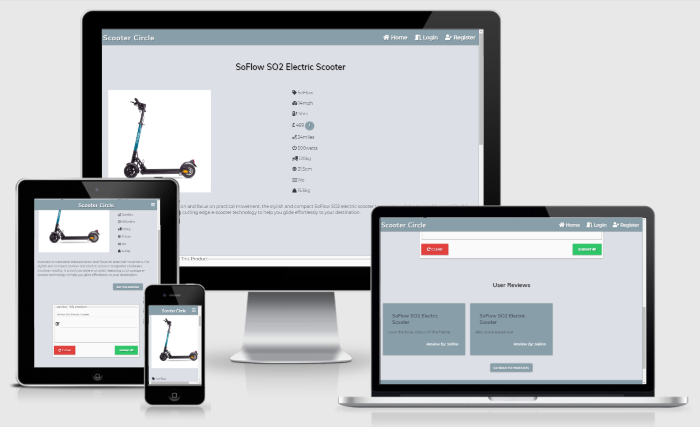
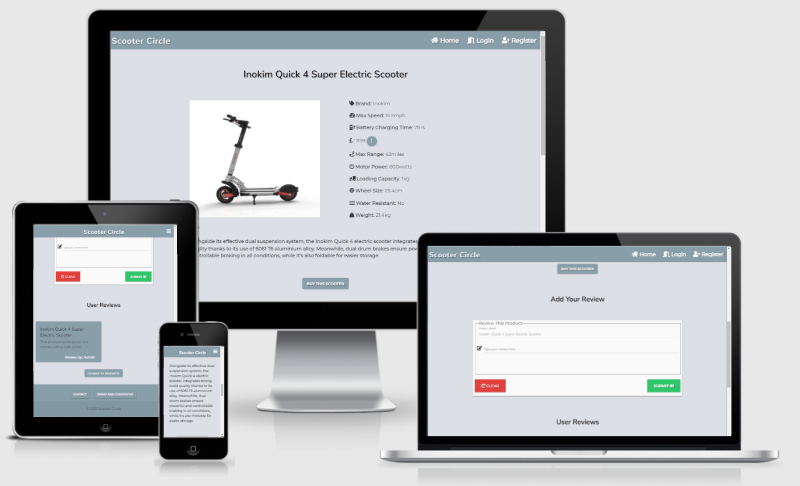
Replaced the images for product and view product page

Changed region(s): [[0.0, 0.0, 0.99, 0.9742]]

diff --git a/README.md b/README.md
@@ -1,6 +1,6 @@
 # Scooter Circle
 
-![Scooter Circle](/static/images/responsive-img.png "Am I Responsive Image") 
+![Scooter Circle](wireframes/images/responsive-img.png "Am I Responsive Image") 
 
 [View the deployed project here](https://scooter-circle.herokuapp.com/)
 
@@ -221,7 +221,8 @@ This app will provide a user with the possibility to view the different scooters
 ## Design 
 
 ### Colour Scheme 
-![Color Pallete](/static/images/colour-pallete.png)
+![Color Pallete](wireframes/images/colour-pallete.png)
+
 -  On occasion colours have been converted to *rgba* values to create transparency.
 -  The colour palette has been picked from [coolors](https://coolors.co/dcdfe5-a0b2bb-39d073-e1403d-383843)
 -  Additional colours have been used: #fafafa to give the text a good contrast on the dark grey background 
@@ -552,7 +553,7 @@ I have used [Lucid Chart](https://www.lucidchart.com/) to create a database mode
 ![all products](wireframes/images/products-page.png)
 
 #### Search 
-  - A search bar has been implemented using **MongoDB** text index to allow the user search by *brand or model*.
+  - A search bar has been implemented using **MongoDB** text index to allow the user to search by *brand or model*.
 
 #### Filter
   - Below the search bar the user may filter their results by: 
@@ -600,16 +601,14 @@ I have used [Lucid Chart](https://www.lucidchart.com/) to create a database mode
     function () {
       $(this).append($("<span class='hover-effect disp-bottom'>charging time</span>"));
     }`
-  - Therefore when the icon is hovered or touched on mobile devices, span element gets appended and description is shown to the user
-  - The icons appear in two collums, the icon at the top will have an icon description showing at the top.
+  - Therefore when the icon is hovered or touched on mobile devices,the span element gets appended and a description is shown to the user
+  - The icons appear in two columns, the icon at the top will have an icon description showing at the top.
   - The icons at the bottom will have the icon description showing at the bottom.
-  - When the user moves on to the different icon or leves the card, the description will be removed.
+  - When the user moves on to a different icon or leaves the card, the description will be removed.
    - `function () {
       $(this).find("span").last().toggle();
     }`
   - When the description is shown, the background colour is #383843, keeping the same style as **tooltip** feature.
-  
-
 
 ##### back to [content](#table-of-content)
 
@@ -696,7 +695,7 @@ I have used [Lucid Chart](https://www.lucidchart.com/) to create a database mode
 ![404.html](wireframes/images/404-error-page.png)
   
 - Custom 404.html page has been created in case of an incorrect URL entered.
-- The user is presented with a full-width background image of the scooter lying on the at the floor at  the  bottom of the stairs.
+- The user is presented with a full-width background image of the scooter lying on the floor at the  bottom of the stairs.
 - The page contains a link that will lead the user back to the home page. 
 
 ##### back to [content](#table-of-content)
@@ -713,7 +712,7 @@ I have used [Lucid Chart](https://www.lucidchart.com/) to create a database mode
 1. Pagination
   - Once the website content gets big enough the pagination would be implemented 
 for reviews on the *profile* and *view product* pages.
-  - Also pagination should be implemented for products on the *products* page.
+  - Also, pagination should be implemented for products on the *products* page.
 
 2. Favourites
   - Add to favourite option could be implemented to let the user save their favourite scooters to their profile page.
@@ -778,7 +777,7 @@ for reviews on the *profile* and *view product* pages.
     - Non-relational databae hosting service 
 
 9. [Wekzeug](https://werkzeug.palletsprojects.com/en/2.0.x/)
-    - A WSGI web application library used to encrypt user passwords
+    - A WSGI web application library is used to encrypt user passwords
 
 10. [Flask-SSLify](https://pypi.org/project/Flask-SSLify/)
      - Flask extension that configures your Flask application to redirect all incoming HTTP requests to HTTPS
@@ -848,7 +847,7 @@ for reviews on the *profile* and *view product* pages.
   - Used this tool to find missing tags
 
 20. [Lampada Test](https://app.lambdatest.com/console/realtime)
-  - Used this tool to help with cross browser compatability test 
+  - Used this tool to help with cross-browser compatibility test 
 
 
     
@@ -970,11 +969,11 @@ API documentation and modified to fit the site purpose.
   - [Techsini](https://techsini.com/how-to-add-css-preloader-to-your-website-tutorial/)
   - The code has then been initialized in the *script.js* file
 
-- Block title template has been used from [Jinja documentation](https://jinja.palletsprojects.com/en/3.0.x/templates/), also a fall back title has been added if the page does not have a specific title added in route.
+- Block title template has been used from [Jinja documentation](https://jinja.palletsprojects.com/en/3.0.x/templates/), also a fallback title has been added if the page does not have a specific title added in route.
 
-- [MongoDB documentation](https://docs.mongodb.com/manual/reference/operator/update/inc/) have been used to find out how to increment total number of reviews, when adding a new review. The same operator has been used to reduce the number of reviews, when the user is deleting a review.
+- [MongoDB documentation](https://docs.mongodb.com/manual/reference/operator/update/inc/) have been used to find out how to increment a total number of reviews when adding a new review. The same operator has been used to reduce the number of reviews when the user is deleting a review.
 
-- Code for custom error handling pages has been sorced from [Flask documentation](https://flask.palletsprojects.com/en/2.0.x/errorhandling/)
+- Code for custom error handling pages has been sourced from [Flask documentation](https://flask.palletsprojects.com/en/2.0.x/errorhandling/)
 
 - Code to handle custom error message in HTML5 form elements was sorced from [Stackoverflow](https://stackoverflow.com/questions/5272433/html5-form-required-attribute-set-custom-validation-message)
 ##### back to [content](#table-of-content)
@@ -991,7 +990,7 @@ API documentation and modified to fit the site purpose.
 
 - I would like to thank my mentor *Medale Oluwafemi* for helping to refactor my code in **Python** to make it easier to read and execute, also for his support and guidance.
 
-- Slack community @Code Institute for reviewing my project and helping me throughout the development, especially *Shane O'Sullivan*, who has suggested extra features to improve UX of the project.
+- Slack community @Code Institute for reviewing my project and helping me throughout the development, especially *Shane O'Sullivan*, who has suggested extra features to improve the UX and UI of the project.
 
 - Tutor support at @Code Institute, for their guidance and assistance during my project development.
 
